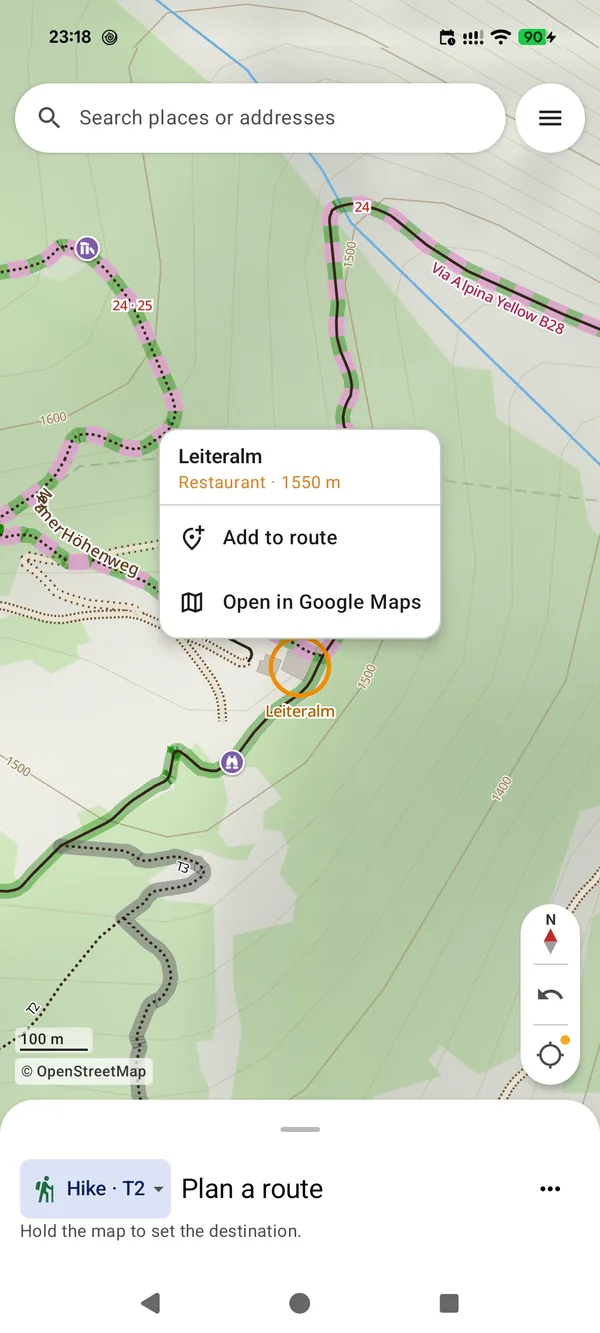
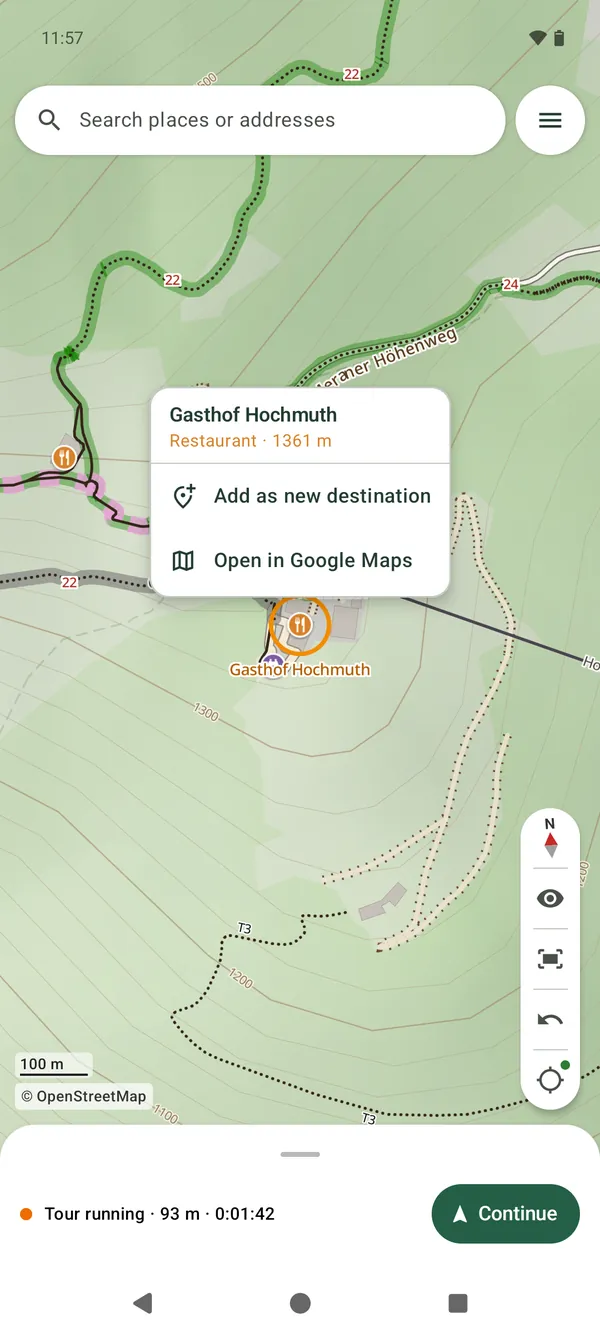
A-021: texts and pictures match the app (Tour menu, Continue, two taps to end, problem report, new A-019 pictures)
Claude-Session: https://claude.ai/code/session_01167zC9N9uMkuUwQSddLLce

diff --git a/content_de.py b/content_de.py
@@ -37,7 +37,7 @@ def route_demo(lang='de'):
     buttons=''.join('<button data-demo="'+str(i)+'" data-text="'+D['t'][i]+'" aria-pressed="'+('true' if i==0 else 'false')+'">'+D['b'][i]+'</button>' for i in range(3))
     return '<div class="demo"><div class="demo-top"><span>'+D['top']+'</span><span class="tag">'+D['tag']+'</span></div><svg class="route-demo" viewBox="0 0 520 330" role="img" aria-label="'+D['aria']+'"><path class="terrain" d="M-40 220C90 80 100 330 280 100S500 40 570 160M-40 250C90 110 100 360 280 130S500 70 570 190M-40 280C90 140 100 390 280 160S500 100 570 220"/><path class="stream" d="M360-20C210 70 430 150 310 220S270 300 330 360"/><path class="way" d="M60 260 120 210 170 230 235 125 320 100 375 160 440 70M120 210 220 255 310 215 375 160"/><path id="old-route" d="M60 260 120 210 170 230 235 125 320 100 440 70"/><path id="demo-route" d="M60 260 120 210 170 230 235 125 320 100 440 70"/><circle class="start-point" cx="60" cy="260" r="9"/><circle class="end-point" cx="440" cy="70" r="9"/><g id="cafe-dot" opacity="0"><circle cx="310" cy="215" r="9"/><rect x="305" y="234" width="120" height="34" rx="5"/><text x="320" y="256">'+D['cafe']+'</text></g><text class="map-label" x="38" y="292">'+D['start']+'</text><text class="map-label" x="425" y="44">'+D['end']+'</text></svg><div class="demo-controls" aria-label="'+D['ctl']+'">'+buttons+'</div><p id="demo-text" aria-live="polite">'+D['t'][0]+'</p><span class="fine">'+D['fine']+'</span></div>'
 MORE={'de':dict(eye='Auf dem Rad und zu Fuß',h='Du bist unterwegs, OnPath denkt mit.',lead='OnPath sagt dir, wann du ankommst, wo du abbiegst und was vor dir liegt – ohne dass du lange suchen musst.',items=[('route','Wege passend zu deiner Aktivität.','Für jede Aktivität rechnet OnPath anders: mit dem Rad über Radwege und ruhige Nebenstraßen, mit dem Gravelbike gern auf Schotter, mit dem Mountainbike auf Trails, zu Fuß auf Wegen bis zu deiner Schwierigkeit. Hauptstraßen nur, wenn es nicht anders geht.'),('clock','Du weißt, wann du ankommst.','Nach etwa 15 Minuten richtet sich die Ankunftszeit nach deinem Tempo, getrennt für bergauf, flach und bergab.'),('pin','Hat die Hütte offen?','Ein Tipp auf den Ort öffnet ihn in Google Maps, mit Öffnungszeiten und Bildern. Zurück in OnPath nimmst du ihn als Stopp in die Route.'),('vibrate','Das Handy bleibt in der Tasche.','Wo du falsch abbiegen könntest, vibriert es: einmal für links, zweimal für rechts. Der Sperrbildschirm zeigt die nächste Abzweigung und die Ankunftszeit.'),('profile','Die Strecke vorher einschätzen.','Vor dem Start siehst du Steigungen, Untergrund und Hinweise wie „120 m Schieben · 2 steile Abschnitte“ oder „Fähre – Fahrzeiten prüfen“.'),('cable','Mit Seilbahn oder Bus? Die Tour stimmt trotzdem.','Fahrten werden erkannt und lassen sich am Ende einfach herausnehmen.')],links=[('/radfahren/','Mehr zum Radfahren'),('/wandern/','Mehr zum Wandern')]),'en':dict(eye='On the bike and on foot',h='You are out there. OnPath thinks ahead.',lead='OnPath tells you when you will arrive, where to turn and what lies ahead – without searching around in the app.',items=[('route','Paths that suit your activity.','OnPath routes differently for each activity: by bike on cycleways and quiet side roads, by gravel bike happily on gravel, by mountain bike on trails, on foot on paths up to your difficulty. Main roads only when there is no other way.'),('clock','You know when you will arrive.','After about 15 minutes the arrival time follows your own pace, uphill, flat and downhill separately.'),('pin','Is the hut open?','One tap opens the place in Google Maps, with opening hours and photos. Back in OnPath you add it to your route as a stop.'),('vibrate','Your phone stays in your pocket.','Where you could take the wrong way it vibrates: once for left, twice for right. The lock screen shows the next junction and your arrival time.'),('profile','Assess the route before setting off.','Before you start you see gradients, surfaces and notes like “120 m pushing · 2 steep sections” or “Ferry – check times”.'),('cable','Cable car or bus? Your tour still adds up.','Rides are recognised and can simply be left out at the end.')],links=[('/cycling/','More about cycling'),('/hiking/','More about hiking')])}
-SHOTS={'de':dict(top='So sieht OnPath aus',tag='App-Bildschirme',ctl='Bildschirm wählen',items=[('plan-wandern','Wandern','Planung einer Wanderung von Vellau zur Leiteralm mit Karte, Zeit und Höhenprofil','Wanderung T2 von Vellau zur Leiteralm: Zeit, Höhenmeter und ein Hinweis auf zwei steile Abschnitte – bevor du losgehst.'),('plan-ebike','E-Bike','Dieselbe Strecke mit dem E-Bike geplant, mit Hinweis auf Schiebestrecke','Dieselbe Strecke mit dem E-Bike: Du siehst vorher, wo es unbefestigt ist und wo du 120 m schieben musst.'),('ort-google-maps','Ort finden','Menü zur Leiteralm mit „Zur Route hinzufügen“ und „In Google Maps öffnen“','Leiteralm gefunden: zur Route hinzufügen oder bei Google Maps nach den Öffnungszeiten schauen.')]),'en':dict(top='What OnPath looks like',tag='App screens',ctl='Choose a screen',items=[('plan-wandern','Hiking','A hike planned from Vellau to the Leiteralm with map, time and elevation profile','A T2 hike from Vellau to the Leiteralm: time, climbing and a note about two steep sections – before you set off.'),('plan-ebike','E-bike','The same route planned by e-bike, with a note about pushing','The same route by e-bike: you see in advance where it is unpaved and where you push for 120 m.'),('ort-google-maps','Find a place','Menu for the Leiteralm with “Add to route” and “Open in Google Maps”','Found the Leiteralm: add it to your route or check the opening hours in Google Maps.')])}
+SHOTS={'de':dict(top='So sieht OnPath aus',tag='App-Bildschirme',ctl='Bildschirm wählen',items=[('plan-wandern','Wandern','Planung einer Wanderung von Vellau zur Leiteralm mit Karte, Zeit und Höhenprofil','Wanderung T2 von Vellau zur Leiteralm: Zeit, Höhenmeter und ein Hinweis auf zwei steile Abschnitte – bevor du losgehst.'),('plan-ebike','E-Bike','Dieselbe Strecke mit dem E-Bike geplant, mit Hinweis auf Schiebestrecke','Dieselbe Strecke mit dem E-Bike: Du siehst vorher, wo es unbefestigt ist und wo du 120 m schieben musst.'),('ort-google-maps','Ort finden','Menü zum Gasthof Hochmuth mit „Als neues Ziel anhängen“ und „In Google Maps öffnen“','Gasthof Hochmuth gefunden: als Ziel oder Stopp übernehmen oder bei Google Maps nach den Öffnungszeiten schauen.')]),'en':dict(top='What OnPath looks like',tag='App screens',ctl='Choose a screen',items=[('plan-wandern','Hiking','A hike planned from Vellau to the Leiteralm with map, time and elevation profile','A T2 hike from Vellau to the Leiteralm: time, climbing and a note about two steep sections – before you set off.'),('plan-ebike','E-bike','The same route planned by e-bike, with a note about pushing','The same route by e-bike: you see in advance where it is unpaved and where you push for 120 m.'),('ort-google-maps','Find a place','Menu for the Gasthof Hochmuth with “Add as new destination” and “Open in Google Maps”','Found the Gasthof Hochmuth: add it as a destination or stop, or check the opening hours in Google Maps.')])}
 def app_shots(lang='de'):
     S=SHOTS[lang]; first=S['items'][0]
     src=lambda k:'/assets/app/'+k+'-'+lang+'.webp'
@@ -61,8 +61,8 @@ def ways_section(lang='de'):
     return '<section class="section" id="'+('planen' if lang=='de' else 'plan')+'"><div class="wrap split ways-split"><div><p class="eyebrow">'+W['eye']+'</p><h2>'+W['h']+'</h2><p class="ways-lead">'+W['lead']+'</p>'+ways+'<div class="ways-cta"><a class="button" href="https://plan.onpath.earth/">'+W['open']+icon('arrow')+'</a><span class="ways-note">'+W['note']+'</span></div></div>'+duo+'</div></section>'
 EXTRA={'de':[('clock','Du weißt, wann du ankommst.','Nach etwa 15 Minuten richtet sich die Ankunftszeit nach deinem Tempo – bergauf, flach und bergab getrennt.'),('vibrate','Das Handy lenkt nicht ab.','Zu Fuß bleibt es in der Tasche: Wo du falsch abbiegen könntest, vibriert es – einmal für links, zweimal für rechts. Am Lenker zeigt es nur Pfeil, Entfernung und Ankunft auf schwarzem Grund – die Karte erscheint erst kurz vor der Abbiegung. Sprachansagen sind in Vorbereitung.'),('cable','Mit Seilbahn oder Bus? Die Tour stimmt trotzdem.','Fahrten werden erkannt. Am Ende nimmst du sie mit einem Tipp aus Strecke und Zeit heraus.')],
 'en':[('clock','You know when you will arrive.','After about 15 minutes the arrival time follows your pace – uphill, flat and downhill separately.'),('vibrate','Your phone does not distract you.','On foot it stays in your pocket: where you could take the wrong way, it vibrates – once for left, twice for right. On the handlebar it shows only an arrow, distance and arrival on a black screen – the map appears shortly before the turn. Spoken directions are in preparation.'),('cable','Cable car or bus? The tour still adds up.','Rides are recognised. At the end, one tap leaves them out of distance and time.')]}
-SMALL={'de':dict(eye='Im Alltag durchdacht',h='Kleine Details.<br>Große Ruhe unterwegs.',cols=[('Unterwegs',[('Nichts wird ohne Frage umgeplant.','Kommst du vom Weg ab, vibriert das Handy und fragt. Die alte Route bleibt grau sichtbar.'),('Beim Navigieren geschützt.','Beim Navigieren reagiert die Karte nicht auf Berührung. Zum Ändern schiebst du einen Schalter.'),('Speichern ohne viele Fragen.','Tour beenden ist ein Tipp. Den Namen schlägt OnPath vor – nach den Orten, durch die du gekommen bist.'),('Unterwegs umplanen.','Ändere dein Ziel oder ergänze einen Stopp. Deine Aufzeichnung läuft weiter, bereits besuchte Punkte werden übersprungen.'),('Jeder Punkt wird sofort gespeichert.','Die Aufzeichnung endet nur, wenn du sie beendest. Nach einem Neustart des Handys setzt du sie mit einem Tipp fort.')]),('Beim Planen',[('Ehrlich, wenn es nicht geht.','Ist ein Ziel mit deiner Aktivität nicht erreichbar, zeigt OnPath die Lücke – statt heimlich einen Umweg zu nehmen.'),('Die Karte zeigt, was für dich geht.','Wege in Grün, Schwarz, Grau oder Rot – je nachdem, ob sie für deine Aktivität passen.'),('Wandern nach SAC-Skala.','T1 bis T5: Wege über deiner Stufe und Klettersteige lässt OnPath aus – soweit sie in der Karte eingetragen sind.'),('Adressen auch ohne Netz.','Straße mit Hausnummer, Dorf, Hütte oder Gipfel – gefunden direkt auf dem Handy.')])],link=('/hilfe/','Alles Schritt für Schritt in der Hilfe')),
-'en':dict(eye='Thoughtful in everyday use',h='Small details.<br>Peace of mind on the way.',cols=[('On the way',[('Nothing is re-routed without asking.','If you leave the route, the phone vibrates and asks. The old route stays visible in grey.'),('Protected while navigating.','While navigating, touching the map does nothing. To edit, you slide a switch.'),('Saving without a lot of questions.','Ending a tour is one tap. OnPath suggests the name from the places you passed.'),('Change the plan along the way.','Change your destination or add a stop. Your recording keeps running and points already visited are skipped.'),('Every point is saved at once.','A recording ends only when you end it. After a phone restart you continue it with one tap.')]),('When planning',[('Honest when it does not work.','If a destination cannot be reached with your activity, OnPath shows the gap instead of quietly making a detour.'),('The map shows what works for you.','Ways in green, black, grey or red – depending on whether they suit your activity.'),('Hiking by SAC scale.','T1 to T5: trails above your level and via ferratas are left out – as far as the map records them.'),('Addresses without signal.','Street and house number, village, hut or peak – found right on the phone.')])],link=('/help/','Everything step by step in the help'))}
+SMALL={'de':dict(eye='Im Alltag durchdacht',h='Kleine Details.<br>Große Ruhe unterwegs.',cols=[('Unterwegs',[('Nichts wird ohne Frage umgeplant.','Kommst du vom Weg ab, vibriert das Handy und fragt. Die alte Route bleibt grau sichtbar.'),('Beim Navigieren geschützt.','Beim Navigieren reagiert die Karte nicht auf Berührung. Zum Ändern schiebst du das „Tour-Menü“ zur Seite.'),('Speichern ohne viele Fragen.','Tour beenden sind zwei Tipps: „Tour beenden“, dann „Speichern“. Den Namen schlägt OnPath vor – nach den Orten, durch die du gekommen bist.'),('Unterwegs umplanen.','Ändere dein Ziel oder ergänze einen Stopp. Deine Aufzeichnung läuft weiter, bereits besuchte Punkte werden übersprungen.'),('Jeder Punkt wird sofort gespeichert.','Die Aufzeichnung endet nur, wenn du sie beendest. Nach einem Neustart des Handys setzt du sie mit einem Tipp fort.')]),('Beim Planen',[('Ehrlich, wenn es nicht geht.','Ist ein Ziel mit deiner Aktivität nicht erreichbar, zeigt OnPath die Lücke – statt heimlich einen Umweg zu nehmen.'),('Die Karte zeigt, was für dich geht.','Wege in Grün, Schwarz, Grau oder Rot – je nachdem, ob sie für deine Aktivität passen.'),('Wandern nach SAC-Skala.','T1 bis T5: Wege über deiner Stufe und Klettersteige lässt OnPath aus – soweit sie in der Karte eingetragen sind.'),('Adressen auch ohne Netz.','Straße mit Hausnummer, Dorf, Hütte oder Gipfel – gefunden direkt auf dem Handy.')])],link=('/hilfe/','Alles Schritt für Schritt in der Hilfe')),
+'en':dict(eye='Thoughtful in everyday use',h='Small details.<br>Peace of mind on the way.',cols=[('On the way',[('Nothing is re-routed without asking.','If you leave the route, the phone vibrates and asks. The old route stays visible in grey.'),('Protected while navigating.','While navigating, touching the map does nothing. To edit, you slide the “Tour menu” aside.'),('Saving without a lot of questions.','Ending a tour takes two taps: “End tour”, then “Save”. OnPath suggests the name from the places you passed.'),('Change the plan along the way.','Change your destination or add a stop. Your recording keeps running and points already visited are skipped.'),('Every point is saved at once.','A recording ends only when you end it. After a phone restart you continue it with one tap.')]),('When planning',[('Honest when it does not work.','If a destination cannot be reached with your activity, OnPath shows the gap instead of quietly making a detour.'),('The map shows what works for you.','Ways in green, black, grey or red – depending on whether they suit your activity.'),('Hiking by SAC scale.','T1 to T5: trails above your level and via ferratas are left out – as far as the map records them.'),('Addresses without signal.','Street and house number, village, hut or peak – found right on the phone.')])],link=('/help/','Everything step by step in the help'))}
 OPEN={
  'de':dict(eye='Unabhängig und offen',h='Deine Touren gehören dir.',pts=[
   ('Touren mitnehmen und sichern.','Deine Touren liegen auf deinem Handy und zusätzlich als GPX-Datei in einem Ordner deiner Wahl.'),
@@ -123,8 +123,8 @@ def small_section(lang='de'):
     highlighted={'Jeder Punkt wird sofort gespeichert.','Every point is saved at once.'}
     cols=''.join('<div><h3>'+t+'</h3><ul>'+''.join('<li><b>'+b+'</b> '+x+'</li>' for b,x in items if b not in highlighted)+'</ul></div>' for t,items in S['cols'])
     return '<section class="section soft"><div class="wrap"><div class="section-heading stacked"><div><p class="eyebrow">'+S['eye']+'</p><h2>'+S['h']+'</h2></div></div><div class="detail-highlights">'+highlights+'</div><details class="detail-more"><summary>'+H['summary']+'</summary><div class="small-cols">'+cols+'</div></details><a class="text-link" href="'+S['link'][0]+'">'+S['link'][1]+' →</a></div></section>'
-EXTRA_SHOT={'de':{'ankunft':('Navigation mit dem Rad: nächste Abzweigung, Restzeit und Ankunft 10:20','Unterwegs immer im Blick: wie weit, wie lange und wann du ankommst.'),'ruheanzeige':('Ruheanzeige am Rad: schwarzer Bildschirm mit Pfeil, 1,0 km Links und Ankunft 10:20','Am Lenker nur Pfeil, Entfernung und Ankunft. Die Karte kommt kurz vor der Abzweigung.'),'fahrt':('Tour beenden: OnPath hat eine Liftfahrt erkannt und fragt, was zählen soll','Mit dem Sessellift nach Vellau: OnPath erkennt die Fahrt und fragt, was zählen soll.')},
-'en':{'ankunft':('Navigating by bike: next turn, time left and arrival 10:20 (German screen)','Always in view on the way: how far, how long and when you arrive.'),'ruheanzeige':('Rest view on the bike: black screen with arrow, 1.0 km left and arrival 10:20','On the handlebar only arrow, distance and arrival. The map returns shortly before the turn.'),'fahrt':('Ending a tour: OnPath recognised a chairlift ride and asks what should count','By chairlift to Vellau: OnPath recognises the ride and asks what should count.')}}
+EXTRA_SHOT={'de':{'ankunft':('Navigation beim Wandern: 110 m Links, 1:40 h und 3,2 km bis zur Leiteralm, Ankunft 13:55','Unterwegs immer im Blick: wie weit, wie lange und wann du ankommst.'),'ruheanzeige':('Ruheanzeige am Rad: schwarzer Bildschirm mit Pfeil, 2,3 km Links, 25 min und Ankunft 12:55','Am Lenker nur Pfeil, Entfernung und Ankunft. Die Karte kommt kurz vor der Abzweigung.'),'fahrt':('Tour beenden: OnPath hat eine Liftfahrt erkannt und fragt, was zählen soll','Mit dem Sessellift nach Vellau: OnPath erkennt die Fahrt und fragt, was zählen soll.')},
+'en':{'ankunft':('Navigating on a hike: 60 m sharp right, 1:35 h and 3.1 km to the Leiteralm, arrival 13:50','Always in view on the way: how far, how long and when you arrive.'),'ruheanzeige':('Rest view on the bike: black screen with arrow, 600 m slight right, 35 min and arrival 11:05','On the handlebar only arrow, distance and arrival. The map returns shortly before the turn.'),'fahrt':('Ending a tour: OnPath recognised a chairlift ride and asks what should count','By chairlift to Vellau: OnPath recognises the ride and asks what should count.')}}
 def more_section(lang='de'):
     M=MORE[lang]; F=FEATURES[lang]; S={k:(alt,txt) for k,_,alt,txt in SHOTS[lang]['items']}
     src=lambda k:'/assets/app/'+k+'-'+lang+'.webp'
@@ -154,9 +154,9 @@ HELP=[
 ('Die Strecke ansehen','<p>Das Höhenprofil zeigt, wo es auf- und abwärts geht. In den Routendetails findest du Wegarten und Untergrund. Hinweise können etwa auf Treppen, Schiebestellen oder eine Fähre aufmerksam machen.</p><p>Kann ein Ziel mit deiner Aktivität nicht erreicht werden, zeigt OnPath den fehlenden Abschnitt. Eine gestrichelte Verbindung ist kein bestätigter begehbarer Weg.</p>'),
 ('Schwierigkeit ist keine Garantie','<p>Die Planung beruht auf OpenStreetMap. Angaben können fehlen oder veraltet sein. Prüfe bei Bergtouren zusätzlich Wetter, Wegzustand und deine Erfahrung. Sperrungen und Hinweise vor Ort gehen immer vor.</p>')]),
 ('unterwegs-aendern','Unterwegs die Route ändern','Einen Abstecher einbauen und die Aufzeichnung fortsetzen.','Navigation Abstecher umplanen Slider neu berechnen Vibration',[
-('Bewusst zur Planung wechseln','<p>Schiebe den Regler zum Bearbeiten der Route. So kannst du den weiteren Weg ändern, ohne deine laufende Aufzeichnung zu beenden.</p>'),
+('Bewusst zur Planung wechseln','<p>Schiebe unten das „Tour-Menü“ zur Seite. Dort kannst du die Route ändern, pausieren oder die Tour beenden. Beim Ändern läuft deine Aufzeichnung weiter.</p>'),
 ('Den weiteren Weg anpassen','<p>Entferne einen nicht mehr benötigten Stopp oder ergänze ein neues Ziel. Kontrolliere anschließend die Strecke. Solange die benötigten Daten auf dem Handy liegen, klappt die Neuberechnung auch ohne Internet.</p>'),
-('Weitergehen oder weiterfahren','<p>Wechsle zurück zur Navigation. OnPath führt dich von deinem Standort aus weiter und überspringt bereits besuchte Zwischenpunkte. Deine Aufzeichnung läuft weiter.</p>'),
+('Weitergehen oder weiterfahren','<p>Tippe auf „Weiter“, dann bist du wieder in der Navigation. OnPath führt dich von deinem Standort aus weiter und überspringt bereits besuchte Zwischenpunkte. Deine Aufzeichnung läuft weiter.</p>'),
 ('Du bist von der Route abgewichen','<p>OnPath meldet sich per Vibration und fragt nach, ob du eine neue Route möchtest. Es ändert den Weg nicht stillschweigend. Nach der Neuberechnung bleibt die ursprüngliche Route grau sichtbar.</p>')]),
 ('orte','Orte suchen & Google Maps nutzen','Ein Café finden, einen Ort teilen oder Öffnungszeiten nachsehen.','Google Suche Adresse Hütte Gipfel teilen Öffnungszeiten Photon',[
 ('In OnPath suchen','<p>Tippe in die Suche und gib einen Ort oder eine Adresse ein. Die geladenen Karten enthalten unter anderem Straßen, Hausnummern, Hütten, Gipfel und Bahnhöfe. Mit Internet ergänzt OnPath die Liste um Online-Ergebnisse.</p>'),
@@ -172,7 +172,7 @@ HELP=[
 ('Die Karte lädt nicht','<p>Prüfe deine Internetverbindung und den Download-Stand bei den Offline-Karten. Ein erstmals angefordertes Gebiet braucht länger. Im Funkloch kann OnPath ein fehlendes Gebiet nicht nachladen.</p>'),
 ('Mein Standort fehlt','<p>Prüfe, ob die Standortfunktion von Android eingeschaltet ist und OnPath die nötige Berechtigung hat. Unter freiem Himmel lässt sich ein Standort meist leichter bestimmen als in Gebäuden. Warte auf eine brauchbare Position, bevor du die Navigation beurteilst.</p>'),
 ('Die Tour wurde unterbrochen','<p>OnPath speichert aufgezeichnete Punkte fortlaufend und ist darauf ausgelegt, eine Tour nach einem Neustart fortzusetzen. Öffne die App und prüfe, ob eine laufende Tour zur Fortsetzung angeboten wird. Die Testversion kann dennoch Fehler enthalten.</p>'),
-('Einen Fehler melden','<p>Notiere dein Handy-Modell, die OnPath-Version, die Situation und was du erwartet hast. Unter Einstellungen → Diagnose → Export kannst du zusätzliche Informationen als Datei erzeugen. Prüfe sie vor dem Weitergeben, besonders auf Orts- und Tourdaten.</p><p><a href="'+GITHUB+'/issues">Auf GitHub einen Fehler melden ↗</a>. Ein GitHub-Konto ist dafür nötig. Öffentlich eingestellte Meldungen und Anhänge können andere lesen; verschicke keine privaten Daten unbedacht. OnPath sendet den Export nicht automatisch.</p>')])]
+('Einen Fehler melden','<p>Notiere dein Handy-Modell, die OnPath-Version, die Situation und was du erwartet hast. Unter Einstellungen → Diagnose → „Send problem report“ (der Knopf ist englisch) kannst du zusätzliche Informationen als Datei erzeugen. Prüfe sie vor dem Weitergeben, besonders auf Orts- und Tourdaten.</p><p><a href="'+GITHUB+'/issues">Auf GitHub einen Fehler melden ↗</a>. Ein GitHub-Konto ist dafür nötig. Öffentlich eingestellte Meldungen und Anhänge können andere lesen; verschicke keine privaten Daten unbedacht. OnPath sendet den Export nicht automatisch.</p>')])]
 
 
 HELP.extend([

diff --git a/content_en.py b/content_en.py
@@ -49,9 +49,9 @@ HELP_EN = [
  ('Set and change points','Hold on the map to add a point. Hold an existing point to see its actions. To move a point on the map, delete and add it again. The expanded list lets you reorder or remove stops. Changes can be undone.'),
  ('Check the route','Inspect the elevation profile, surfaces and notices. A dashed gap to an unreachable destination is not a confirmed usable path. Signs, closures and conditions on the ground take priority.')]),
  ('change-route','Change the route along the way','Add a stop and keep your recording.', 'edit change detour route navigation', [
- ('Switch to editing','Use the deliberate edit control to change the remaining plan. Your current recording keeps running.'),
+ ('Switch to editing','Slide the “Tour menu” at the bottom of the screen aside. There you can change the route, pause or end the tour. While you change the route, your recording keeps running.'),
  ('Adjust the next part','Remove a stop or add a new destination and check the new route. Recalculation works offline when all the required areas are ready.'),
- ('Continue from here','Return to navigation. Points already visited are skipped. If you leave the route, OnPath asks before calculating a new one; the original stays visible in grey. Imported GPX tracks are not yet freely editable plans.')]),
+ ('Continue from here','Tap “Continue” to return to navigation. Points already visited are skipped. If you leave the route, OnPath asks before calculating a new one; the original stays visible in grey. Imported GPX tracks are not yet freely editable plans.')]),
  ('places','Places and Google Maps','Find a café, check details and plan the way there.', 'google maps search photon address hut cafe', [
  ('Find a place','Search a name or address in OnPath. Downloaded maps include streets, villages, huts, peaks and stations. With internet, additional online results are added.'),
  ('Check details in Google Maps','Open the place details in OnPath and use the Google Maps action to check opening hours, photos or reviews. Return to OnPath and add the place as a stop or destination. OnPath calculates the route for your activity.'),
@@ -64,7 +64,7 @@ HELP_EN = [
  ('troubleshooting','If something goes wrong','Missing maps, location problems and feedback.', 'problem error gps battery map diagnostics', [
  ('Maps are missing','Check your connection and download status. A first request for a new area may take longer. Missing maps cannot be fetched without internet.'),
  ('Your position is missing','Check Android’s location setting and the app’s permission. Wait outdoors for a usable position; dense trees, buildings and valleys can reduce accuracy.'),
- ('Report a problem','Note your phone model, app version, what you tried and what happened. You can create a diagnostic export in settings. Nothing is sent automatically. Check it for private tour information before sharing.')]),
+ ('Report a problem','Note your phone model, app version, what you tried and what happened. You can create a file with more details in Settings → Diagnostics → “Send problem report”. Nothing is sent automatically. Check it for private tour information before sharing.')]),
  ('navigation','Follow the way','Junctions, arrival time and ending your outing.', 'left right vibration recording time lock screen', [
  ('Before a turn','OnPath shows the next junction and, where you could take the wrong way, vibrates once for left and twice for right. Try the signals on a familiar route; their visibility depends on your phone and where you carry it. Spoken directions are in preparation. For now, OnPath guides you by map and vibration.'),
  ('Lock screen and time','The notification shows the next junction and estimated arrival. After about 15 minutes and one kilometre, the estimate starts adapting to your actual pace.'),
